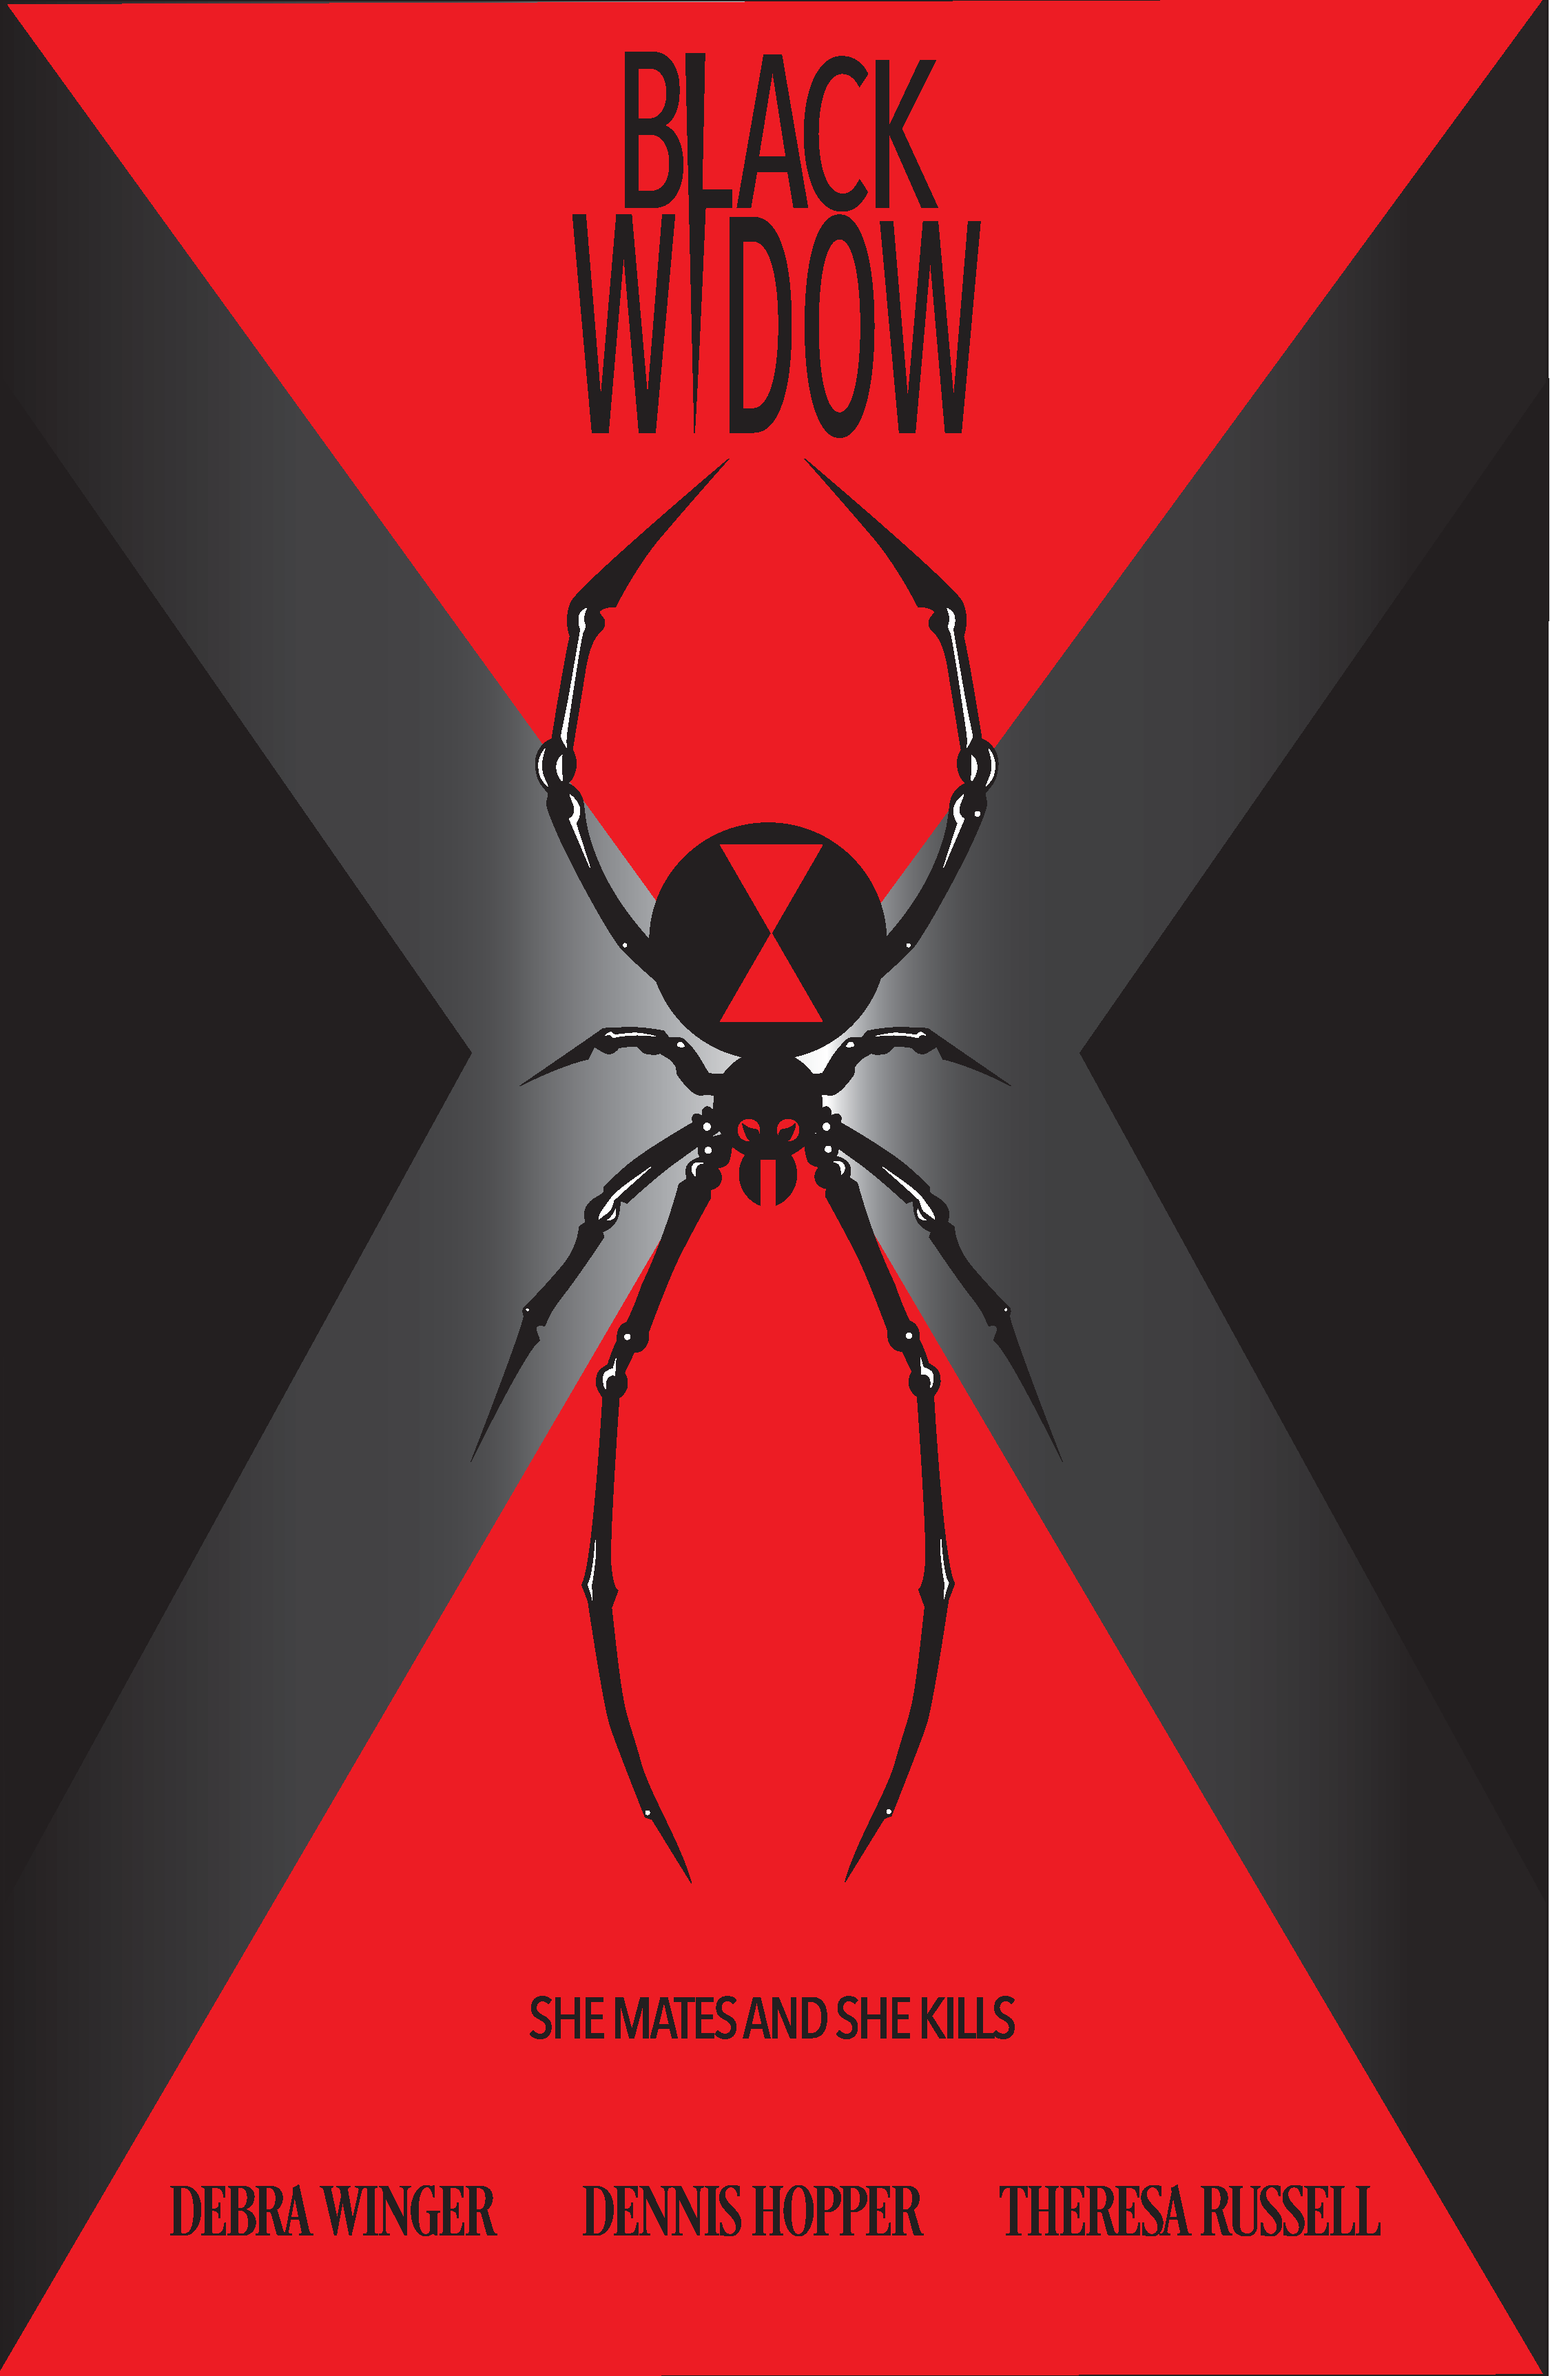
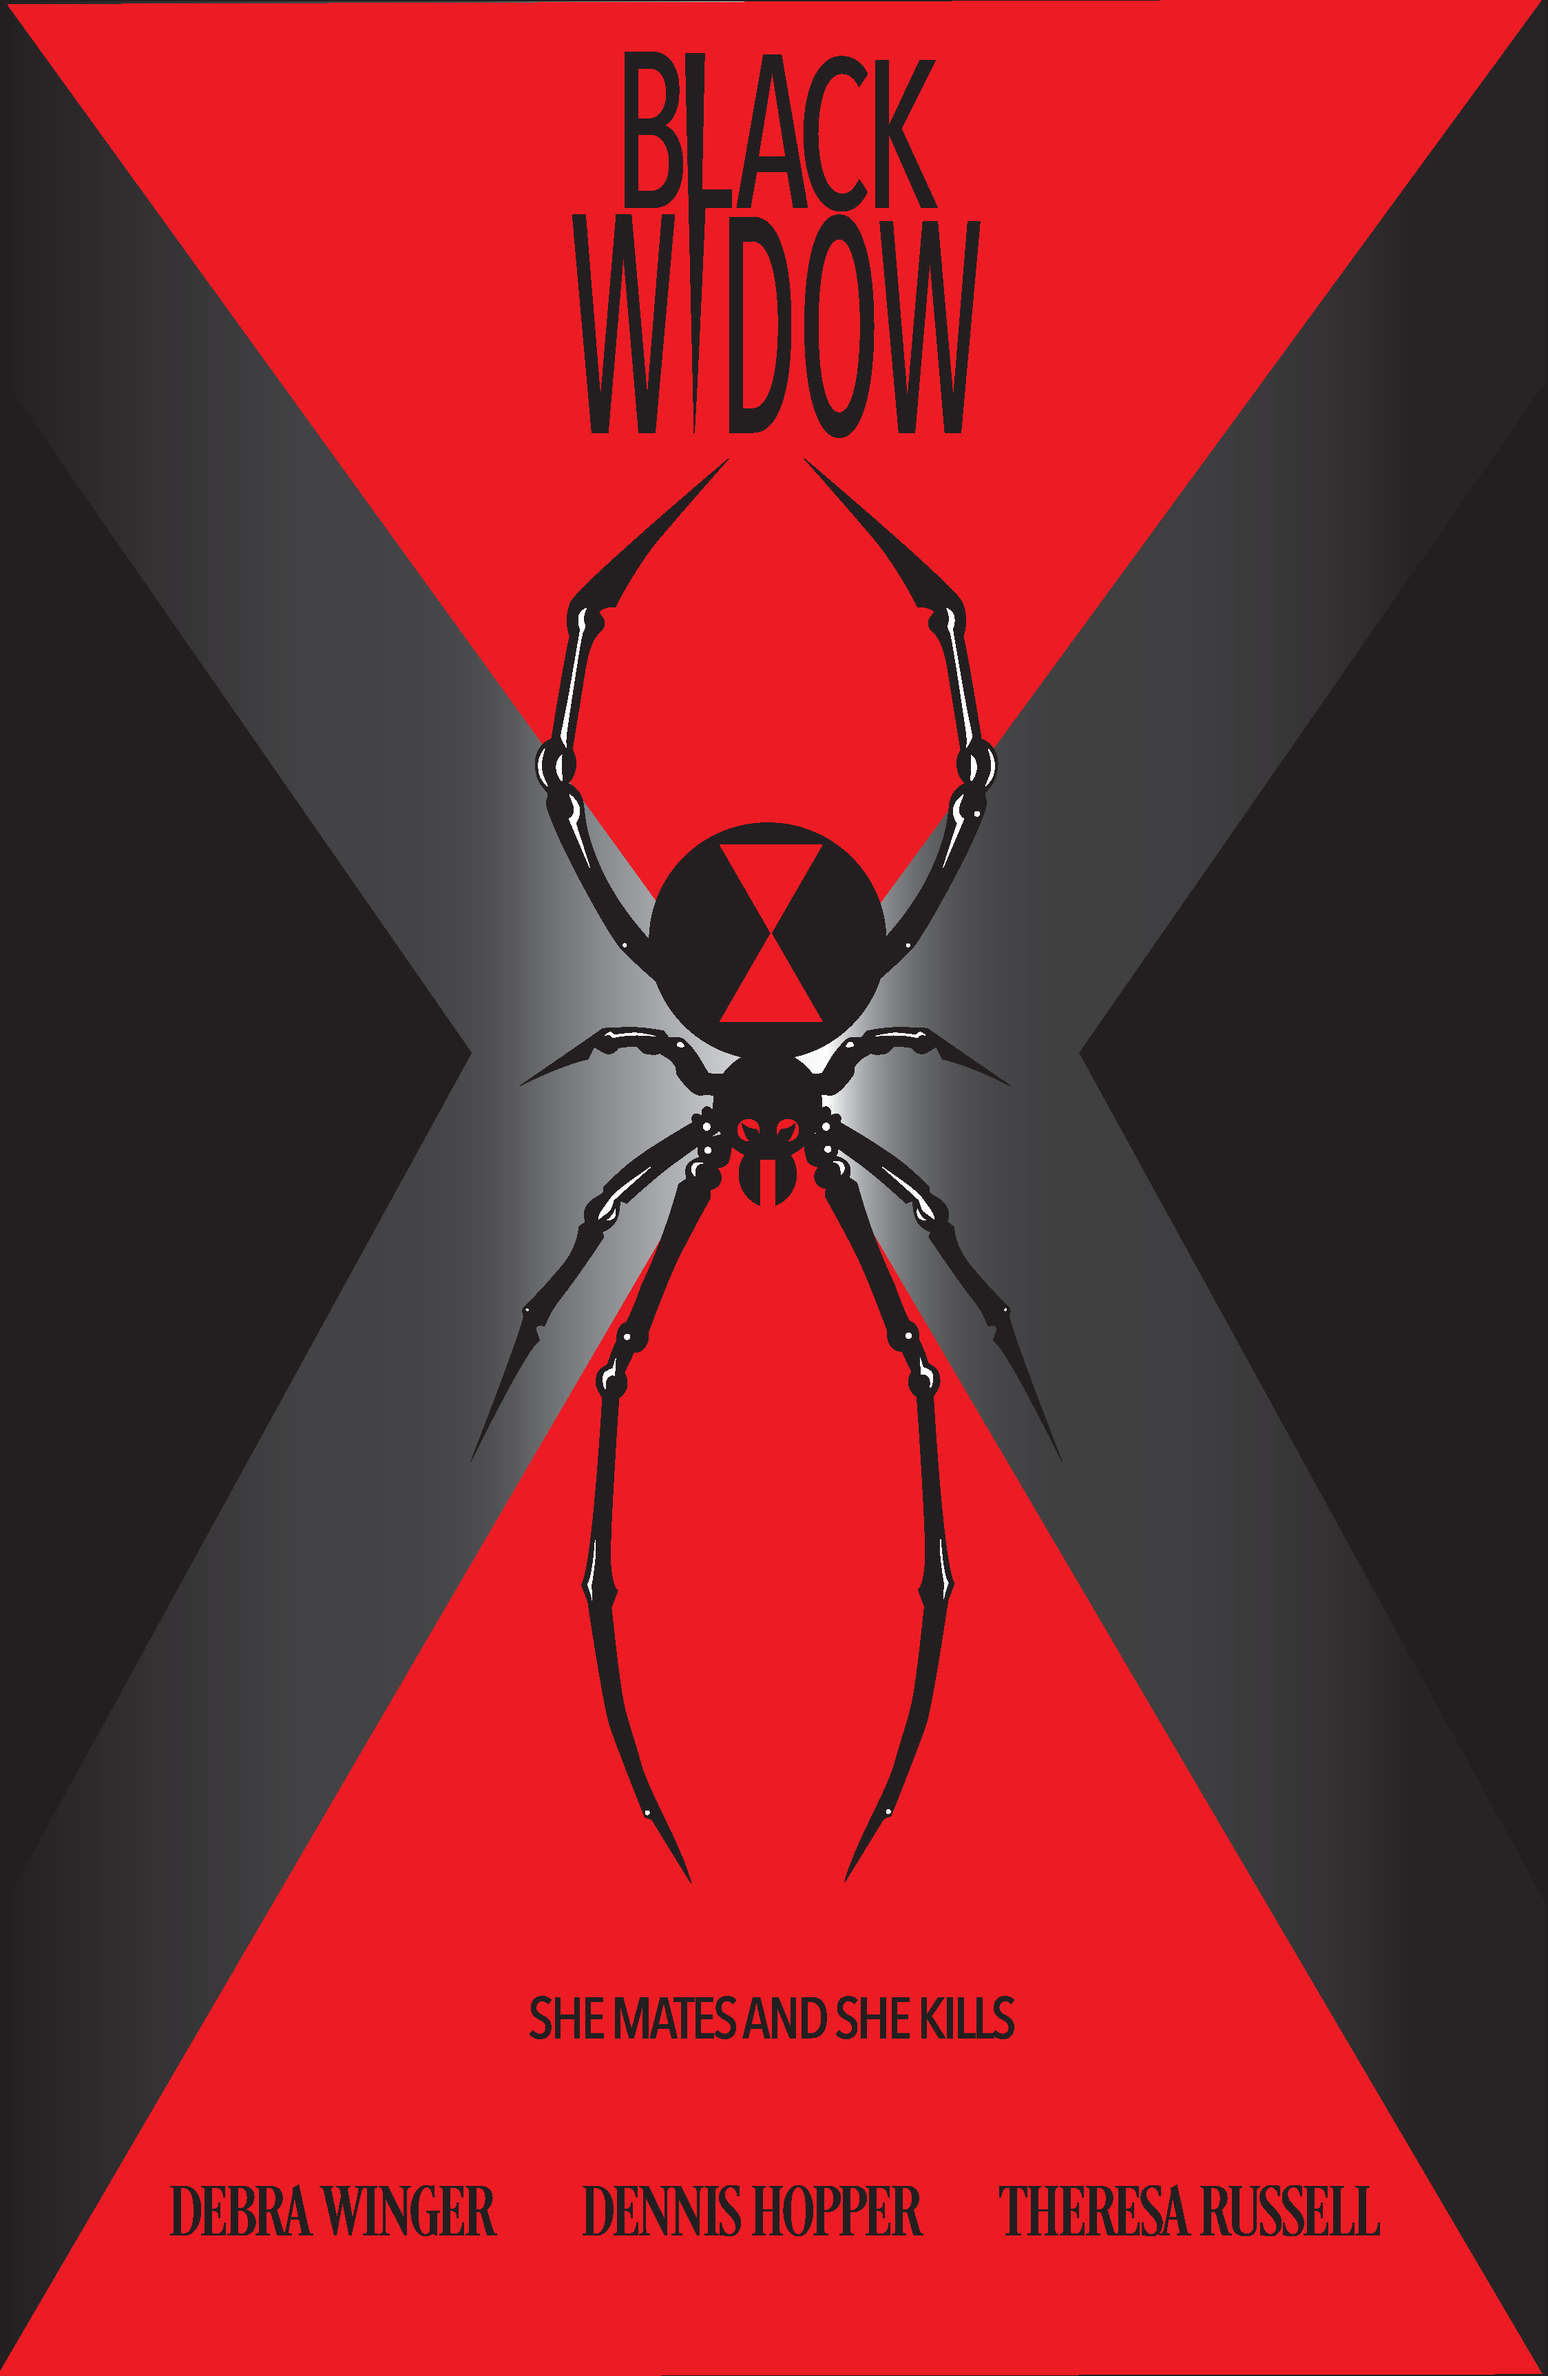
fix spider

Changed region(s): [[0.9964, 0.0, 1.0, 1.0], [0.5605, 0.1241, 0.6228, 0.1551], [0.5916, 0.8374, 0.6228, 0.8684]]

diff --git a/gallery-Graphic.html b/gallery-Graphic.html
@@ -57,6 +57,7 @@
               <h4>Moth Morphosis Logo Design</h4>
               <p>Creative Direction</p>
               <p>Design Direction</p>
+              <p>Illustration</p>
             </div>
             <div class="slideshowImage">
               <img src="images/wishBook.png">
